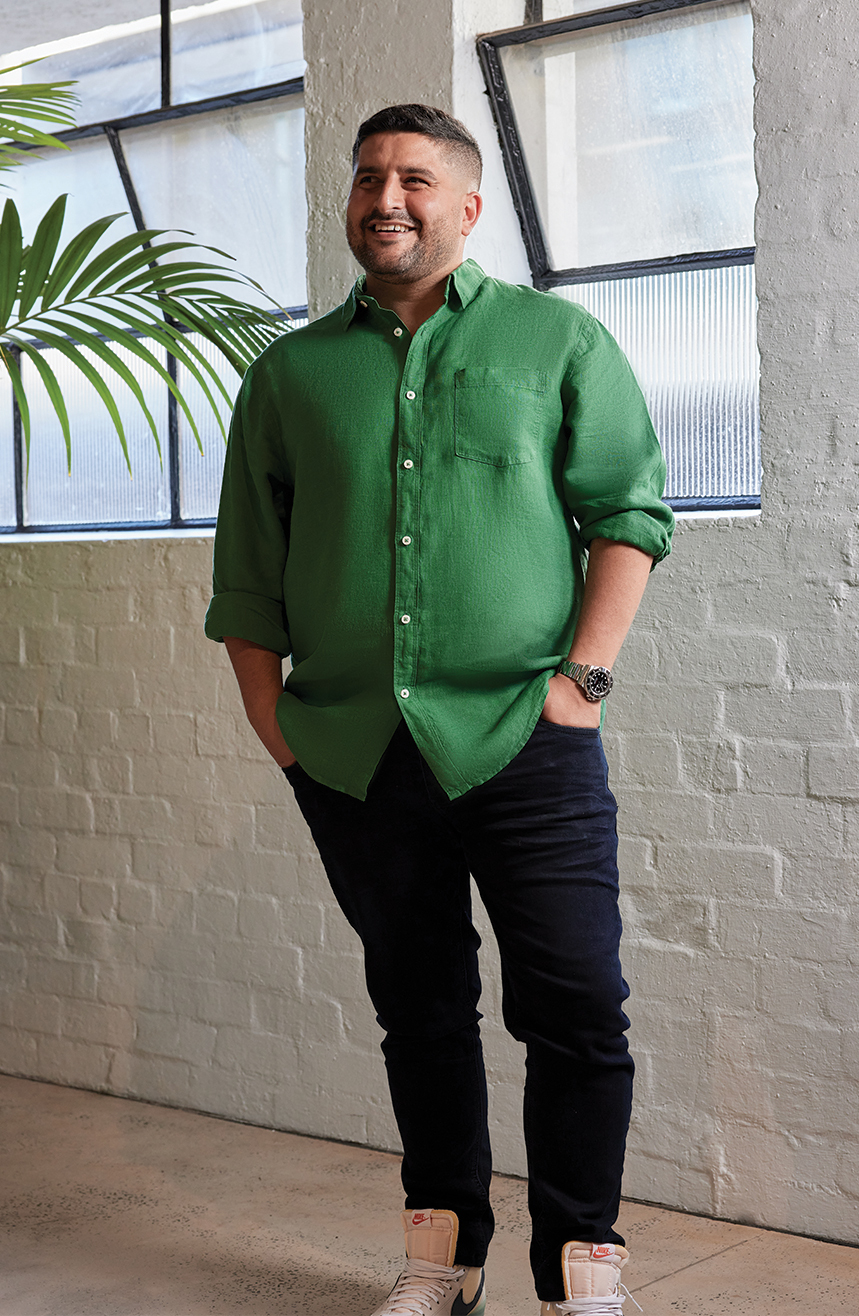
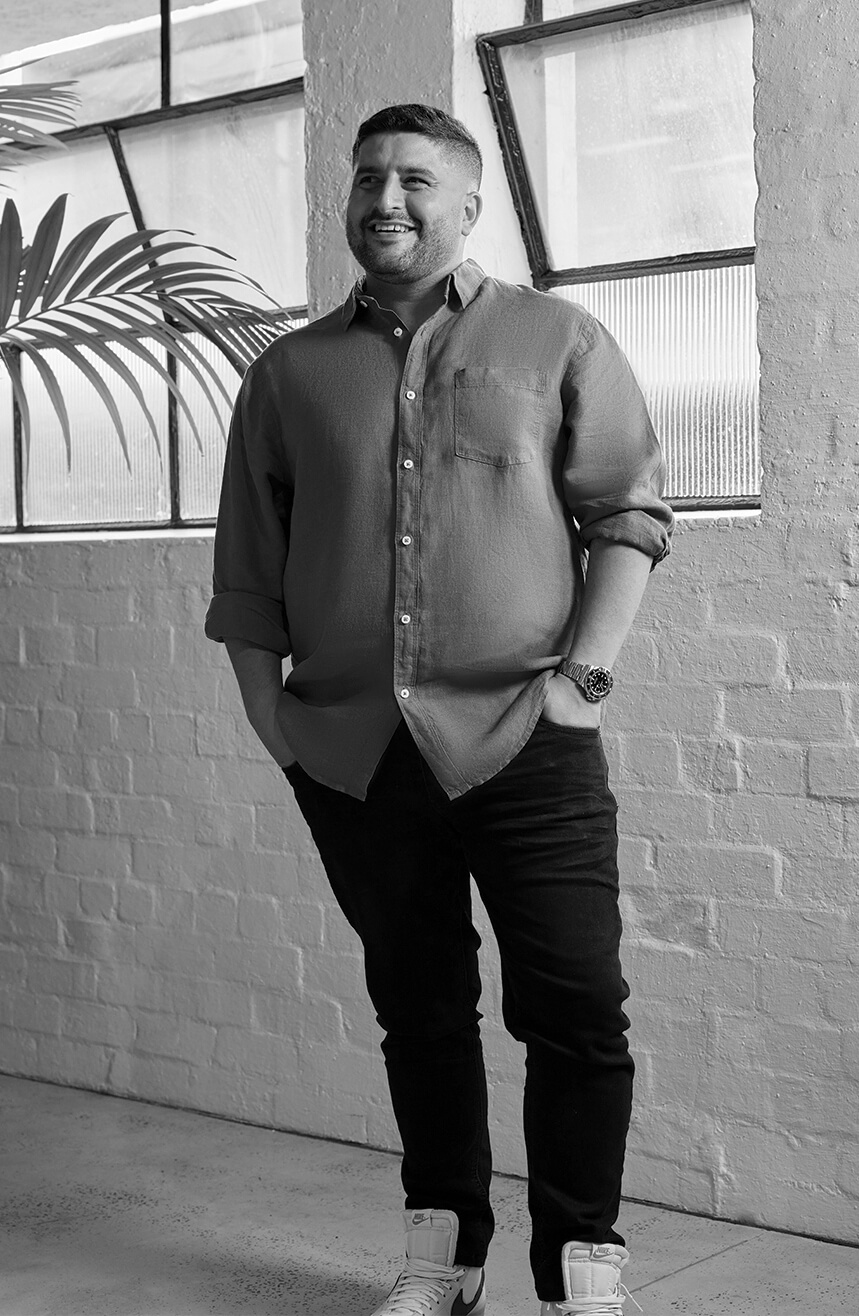
kolege update

diff --git a/index.html b/index.html
@@ -5,7 +5,9 @@
   <meta name="viewport" content="width=device-width, initial-scale=1.0">
   <link href="https://cdn.jsdelivr.net/npm/bootstrap@5.1.3/dist/css/bootstrap.min.css" rel="stylesheet" integrity="sha384-1BmE4kWBq78iYhFldvKuhfTAU6auU8tT94WrHftjDbrCEXSU1oBoqyl2QvZ6jIW3" crossorigin="anonymous">
   <link rel="stylesheet" href="assets/scss/main.css">
-  <title>Rubiks</title>
+  <link rel="icon" type="image/png" href="assets/images/KOLEGE_FAVICON-BLACK.png" media="(prefers-color-scheme: light)">
+  <link rel="icon" type="image/png" href="assets/images/KOLEGE_FAVICON-WHITE.png" media="(prefers-color-scheme: dark)">
+  <title>Kolege — Shaped by intention, clarity and commitment.</title>
 </head>
 <body>
 
@@ -13,7 +15,7 @@
   <div class="container">
     <div class="section-banner__sidebar">
       <a href="javascript:void(0)" class="closebtn" onclick="closeNav()">
-        <img class="img-fluid" src="assets/images/cancel.png" alt="Rubiks">
+        <img class="img-fluid" src="assets/images/cancel.png" alt="Kolege">
       </a>
 
       <div class="section-banner__sidebar-form">
@@ -37,13 +39,14 @@
     </div>
 
     <div class="section-banner__logo">
-      <img class="img-fluid" src="assets/images/rubiks-logo.png" alt="Rubiks">
+      <img class="img-fluid" src="assets/images/KOLEGE_RGB_BRANDMARK_WHITE.svg" alt="Kolege">
     </div>
 
-    <video src="https://lbdvideos.s3.ap-southeast-2.amazonaws.com/A_Main_48+Westgate+Street%2C+Pascoe+Vale+South_Clean.mp4" loop autoplay muted playsinline></video>
+    <video class="banner-video banner-video--desktop" src="https://sharedfiles.atollon.au/Kolege-E_Website-15-sec.mp4" loop autoplay muted playsinline></video>
+    <video class="banner-video banner-video--mobile" src="https://sharedfiles.atollon.au/Kolege-F_Mobile%20Website-15sec.mp4" loop autoplay muted playsinline></video>
 
     <div class="section-banner__control">
-      <p>Three dimensions to build a home.</p>
+      <p>Shaped by intention, clarity and a commitment to doing things properly.</p>
     </div>
   </div>
 </div>
@@ -53,21 +56,19 @@
     <div class="row align-items-end">
       <div class="col-12 col-lg-8">
         <div class="section-about__image">
-          <img class="img-fluid" src="/assets/images/house.jpg" alt="Rubiks">
+          <img class="img-fluid" src="/assets/images/house.jpg" alt="Kolege">
         </div>
       </div>
 
       <div class="col-12 col-lg-4">
         <div class="section-about__content">
-          <h4>RUBIKS PHILOSOPHY</h4>
+          <h4>PHILOSOPHY.</h4>
 
-          <p>A home isn’t one dimensional. The process of creating one shouldn’t be either.</p>
+          <p>Kolege is driven by a mindset of continual improvement. The business has experienced purposeful growth over the past few years, taking on more capability, more control of the process and a more intentional approach to the type of projects it accepts. The focus is on doing fewer things, but doing them at a higher standard, with a selective pipeline that protects quality and keeps every build under clear control.</p>
 
-          <p> We’re a residential building company that’s based in Melbourne.</p>
+          <p>Founded by Koray Kolege, whose background in law brings structure, foresight and accountability to the way the business operates, the approach is uncommon in the building industry. Issues are anticipated early, decisions are made with clarity and the work is delivered with a steady hand. As the business has expanded into joinery, joint ventures and specialised private builds, that mindset has remained the anchor. </p>
 
-          <p> We deliver original, discerningly designed homes that elevate and enrich ordinary life for those who live in them. With every build we give our give heart and soul. We like to keep it personal, because we believe a home deserves that.</p>
-
-          <p style="margin-bottom: 0">We love what we do, and we want our clients to enjoy the process as much as we do. Relationship is core to the way we work, ensuring we support, and connect with, our client’s needs at every stage — making the building journey not just simple and straightforward, but fun and enjoyable for everyone.</p>
+          <p> The philosophy is simple. Keep evolving, keep strengthening the process and keep creating outcomes that feel fair, balanced and well considered for everyone involved. It is a pursuit of better, not more, guided by a belief that the way you operate is just as important as the work you deliver.</p>
         </div>
       </div>
     </div>
@@ -79,7 +80,7 @@
     <div class="row align-items-end">
       <div class="col-12 col-lg-5">
         <div class="section-about__image">
-          <img class="img-fluid" src="/assets/images/RUBIKS1366 1_WEB.jpg" alt="Rubiks">
+          <img class="img-fluid" src="/assets/images/RUBIKS1366 1_WEB.jpg" alt="Kolege">
         </div>
       </div>
 
@@ -87,26 +88,24 @@
         <div class="section-about__content">
           <h4>KORAY KOLEGE</h4>
 
-          <p>
-            Koray has become known for the signature aesthetic and craftsmanship
-            that’s evident in every building project he sees through to completion.
-            What isn’t always so obvious is the consideration and meticulous approach
-            to detail that he applies from beginning to end of every project.
-            It’s a skill, honed over years spent as a lawyer before his time as
-            a builder, that allows Koray to develop trust with his clients very quickly.
-            Koray’s ambition is to not just deliver a design-led, quality and functional home at the end, but to make the process fun and enjoyable for every client he works with — clients that often end up becoming great friends.
-          </p>
+          <p>Koray Kolege brings a rare mix of discipline, foresight and genuine passion to the building industry. With a background in law, he approaches every project with clarity, structure and an attention to detail that has shaped his reputation across the Inner North. It is a way of thinking that builds trust quickly and keeps even the most complex projects steady from beginning to end.</p>
+
+          <p>In a short space of time Koray has earned a strong profile through the quality of his work, not through seeking attention. Joint venture partnerships, design led developments and an in house joinery operation have all contributed to a growing portfolio of projects that stand out for their execution and results. The momentum is real, but the growth is purposeful. He takes on only the work he can stand behind, choosing clients and collaborators who value the same standards.</p>
+
+          <p>Koray is a family man who values time, balance and being present. He is also a passionate supporter of the local soccer community, bringing the same grounded, outgoing energy to his relationships and the way he works.</p>
+
+          <p>His approach is simple. Be honest, stay deliberate, keep evolving and enjoy the process while doing it.</p>
         </div>
       </div>
     </div>
   </div>
 </div>
 
-<div class="footer bg-black">
+<div class="footer">
   <div class="container">
     <div class="footer__wrapper">
       <div class="footer__wrapper-logo">
-        <img class="img-fluid" src="assets/images/rubiks-logo.png" alt="Rubiks">
+        <img class="img-fluid" src="assets/images/KOLEGE_RGB_BRANDMARK_WHITE.svg" alt="Kolege">
 
         <div class="socials">
           <a target="_blank" href="https://www.facebook.com/pages/category/Construction-Company/Rubiks-Cubed-986932254829720/">Facebook</a>
@@ -116,7 +115,7 @@
 
       <div class="footer__wrapper-tel">
         <a class="tel" href="tel:0404 977 313">0404 977 313</a>
-        <a target="_blank"href="mailto:[email redacted]">[email redacted]</a>
+        <a target="_blank" href="mailto:[email redacted]">[email redacted]</a>
       </div>
     </div>
   </div>

diff --git a/assets/scss/main.css b/assets/scss/main.css
@@ -2181,7 +2181,7 @@ html {
 
 body {
   font-size: 0.875rem;
-  color: #292530;
+  color: #1B1B1B;
   font-family: "Helvetica", sans-serif;
   -webkit-font-smoothing: antialiased;
   overflow-x: hidden;
@@ -2414,7 +2414,7 @@ iframe {
 form input {
   color: #fff;
   display: block;
-  width: 250px;
+  width: 480px;
   background-color: transparent;
   border-top: none;
   border-left: none;
@@ -2431,11 +2431,17 @@ form input::placeholder {
 form textarea {
   color: #fff;
   display: block;
-  width: 250px;
+  width: 480px;
   border: none;
-  background: url("../images/line-2.png") repeat-y;
+  background-color: transparent;
+  background-image: repeating-linear-gradient(
+    to bottom,
+    transparent 0,
+    transparent 30px,
+    rgba(255, 255, 255, 0.4) 30px,
+    rgba(255, 255, 255, 0.4) 31px
+  );
   line-height: 31px;
-  background-size: 100% 31px;
 }
 form textarea::placeholder {
   font-size: 0.875rem;
@@ -2469,13 +2475,24 @@ form textarea::placeholder {
   height: 100%;
   object-fit: cover;
 }
+.section-banner .banner-video--desktop {
+  display: none;
+}
+@media (min-width: 768px) {
+  .section-banner .banner-video--desktop {
+    display: block;
+  }
+  .section-banner .banner-video--mobile {
+    display: none;
+  }
+}
 .section-banner__sidebar {
   height: 100%;
   width: 0;
   position: fixed;
   top: 0;
   right: 0;
-  background-color: #000;
+  background-color: #5D625B;
   overflow-x: hidden;
   transition: 0.5s;
   padding: 60px 0 40px;
@@ -2528,17 +2545,17 @@ form textarea::placeholder {
 }
 @media (min-width: 576px) {
   .section-banner__logo img {
-    height: 215px;
+    height: 150px;
   }
 }
 @media (min-width: 768px) {
   .section-banner__logo img {
-    height: 275px;
+    height: 193px;
   }
 }
 @media (min-width: 1200px) {
   .section-banner__logo img {
-    height: 175px;
+    height: 122px;
   }
 }
 .section-banner__control {
@@ -2641,7 +2658,7 @@ form textarea::placeholder {
   left: 0;
   height: 13px;
   width: 37px;
-  background-color: #A4EDDD;
+  background-color: #CACCBE;
 }
 .section-about__content p {
   line-height: 1.1;
@@ -2681,6 +2698,7 @@ form textarea::placeholder {
 
 .footer {
   padding: 55px 0;
+  background-color: #5D625B;
 }
 @media (min-width: 768px) {
   .footer__wrapper {
@@ -2696,14 +2714,14 @@ form textarea::placeholder {
   }
 }
 .footer__wrapper-logo img {
-  height: 115px;
+  height: 40px;
   margin-bottom: 70px;
 }
 @media (min-width: 768px) {
   .footer__wrapper-logo img {
     margin-bottom: 0;
     margin-right: 80px;
-    height: 80px;
+    height: 28px;
   }
 }
 .footer__wrapper-tel {

diff --git a/app.js b/app.js
@@ -1,5 +1,5 @@
 function openNav() {
-  document.querySelector('.section-banner__sidebar').style.width = '500px';
+  document.querySelector('.section-banner__sidebar').style.width = '600px';
   document.querySelector('body').style.overflow = 'hidden';
 }
 